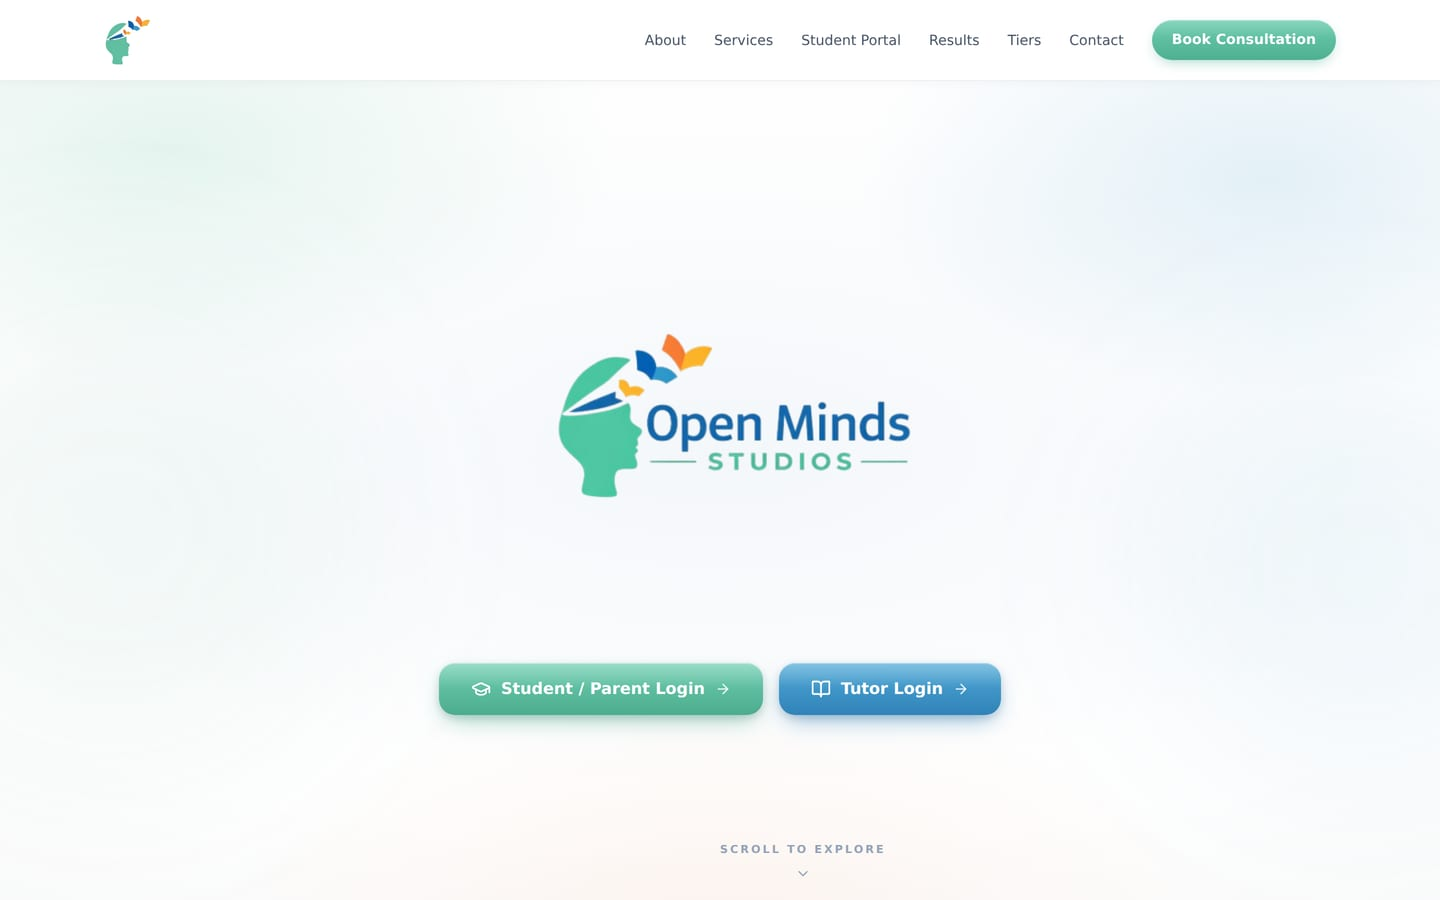
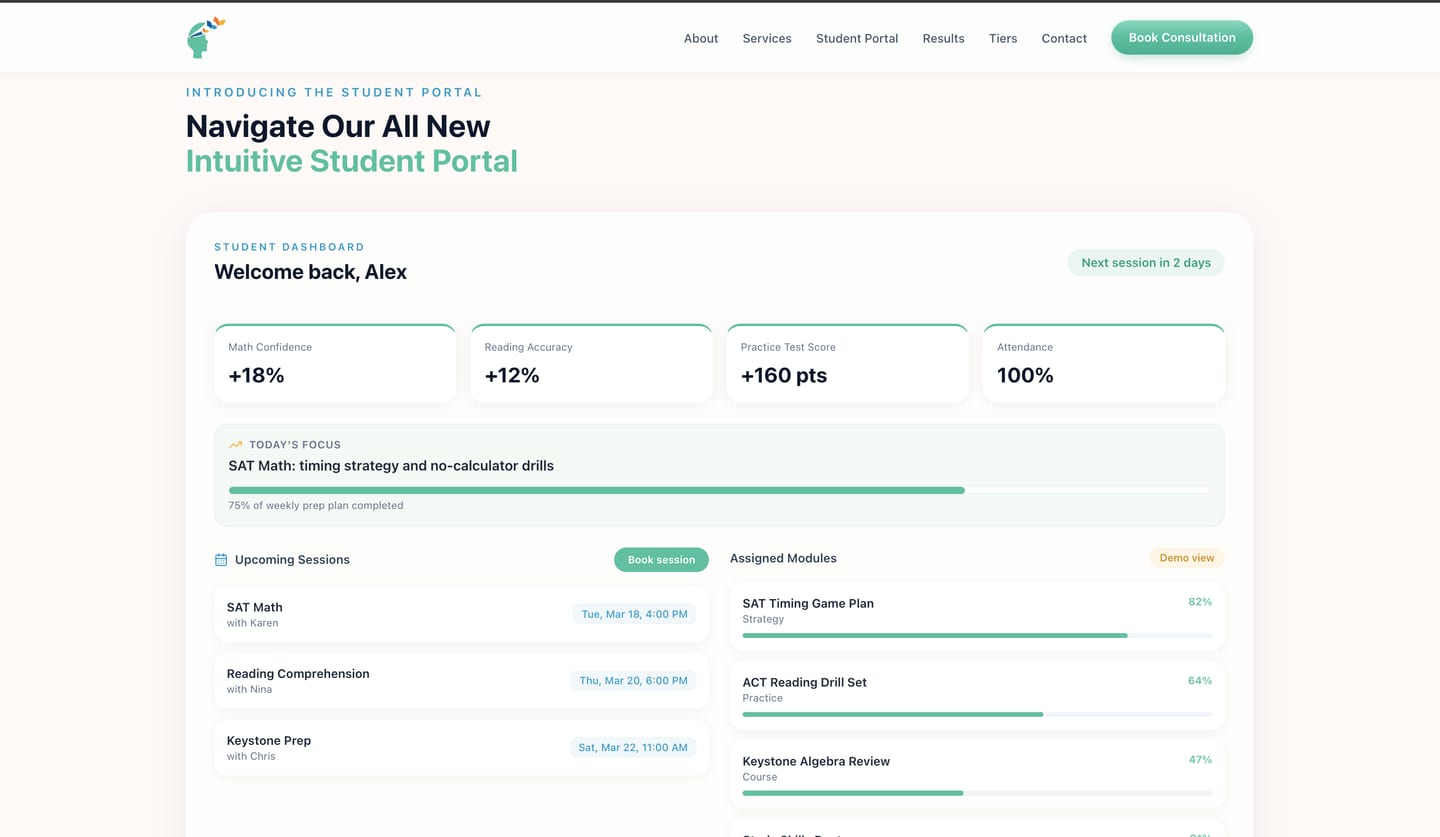
Real product media in the journey stages
- Pup O'Clock: the phone frame now slowly scrolls through a full-page
  capture of the live mobile site (pauses on hover, disabled under
  prefers-reduced-motion)
- OpenMinds: desktop frame shows the Student Portal page with the demo
  student dashboard
- Califree: desktop frame shows the real control panel home (server
  status, tick and memory charts, join info) at califree.net; secondary
  card shows the player book, reserved for a recorded video walkthrough
  later

Claude-Session: https://claude.ai/code/session_0158GqCo9S1nxKSWqGvfCx8h

diff --git a/src/components/ProjectMedia.jsx b/src/components/ProjectMedia.jsx
@@ -27,6 +27,20 @@ function Phone({ src, alt, width = 390, height = 844 }) {
   );
 }
 
+/* A phone frame whose screen slowly crawls through a full-page capture of the
+   live mobile site, so the stage reads as the site being browsed. Purely
+   decorative motion: it pauses on hover and turns off under
+   prefers-reduced-motion (see .stage-phone--live in main.css). */
+function LivePhone({ src, alt, width, height }) {
+  return (
+    <figure className="stage-phone stage-phone--live">
+      <div className="phone-scroll">
+        <img src={src} alt={alt} width={width} height={height} loading="lazy" decoding="async" />
+      </div>
+    </figure>
+  );
+}
+
 const STAGES = {
   pupoclock: () => (
     <div className="stage stage--pup">
@@ -35,9 +49,11 @@ const STAGES = {
         alt="Homepage of the live Pup O’Clock website"
         domain="pupoclock.com"
       />
-      <Phone
-        src={asset("assets/work/pupoclock-mobile.jpg")}
-        alt="Pup O’Clock on a phone-sized screen"
+      <LivePhone
+        src={asset("assets/work/pupoclock-mobile-full.jpg")}
+        alt="The full Pup O’Clock mobile site, scrolling slowly from top to bottom"
+        width={420}
+        height={9242}
       />
       <span className="stage-accent" aria-hidden="true"></span>
     </div>
@@ -46,7 +62,7 @@ const STAGES = {
     <div className="stage stage--om">
       <Browser
         src={asset("assets/work/openminds-home.jpg")}
-        alt="Landing page of the live Open Minds Studios site, with student and tutor portal logins"
+        alt="Student Portal page of the live Open Minds Studios site, showing the demo student dashboard with progress stats and upcoming sessions"
         domain="openmindsstudios.com"
       />
       <Phone
@@ -59,16 +75,18 @@ const STAGES = {
   serverpanel: () => (
     <div className="stage stage--sp">
       <Browser
-        src={asset("assets/work/serverpanel-case.jpg")}
-        alt="Opening of the Califree Control Panel case study: a dark chunk-grid world map behind the system's headline numbers"
-        domain="juanjbarreraj.com/work/califree"
+        src={asset("assets/work/serverpanel-panel.jpg")}
+        alt="Home view of the live Califree control panel: server online, tick-time and memory charts, and the join info card"
+        domain="califree.net"
       />
+      {/* Secondary card: the player book view. Placeholder slot for a
+          recorded video walkthrough of the panel, coming later. */}
       <figure className="stage-card" aria-hidden="true">
         <img
-          src={asset("assets/work/serverpanel-arch.jpg")}
+          src={asset("assets/work/serverpanel-players.jpg")}
           alt=""
           width={1440}
-          height={900}
+          height={828}
           loading="lazy"
           decoding="async"
         />

diff --git a/src/styles/main.css b/src/styles/main.css
@@ -1111,6 +1111,45 @@ p {
   object-position: top center;
 }
 
+/* live phone: the screen crawls through a full-page capture of the mobile
+   site (420x9242), reading as a slow scroll. Hover pauses it; reduced
+   motion disables it (the global reduce block would otherwise turn the
+   infinite alternate loop into flicker, so it is opted out explicitly). */
+.stage-phone--live .phone-scroll {
+  aspect-ratio: 390 / 760;
+  overflow: hidden;
+}
+
+.stage-phone--live img {
+  width: 100%;
+  height: auto;
+  aspect-ratio: auto;
+  object-fit: unset;
+  display: block;
+  animation: phone-crawl 38s ease-in-out 1.2s infinite alternate;
+  will-change: transform;
+}
+
+.stage-phone--live:hover img {
+  animation-play-state: paused;
+}
+
+@keyframes phone-crawl {
+  from {
+    transform: translateY(0);
+  }
+  to {
+    /* window shows 1.9487/22.005 of the capture: stop where the footer fills it */
+    transform: translateY(-91.14%);
+  }
+}
+
+@media (prefers-reduced-motion: reduce) {
+  .stage-phone--live img {
+    animation: none !important;
+  }
+}
+
 .stage-accent {
   position: absolute;
   display: block;
